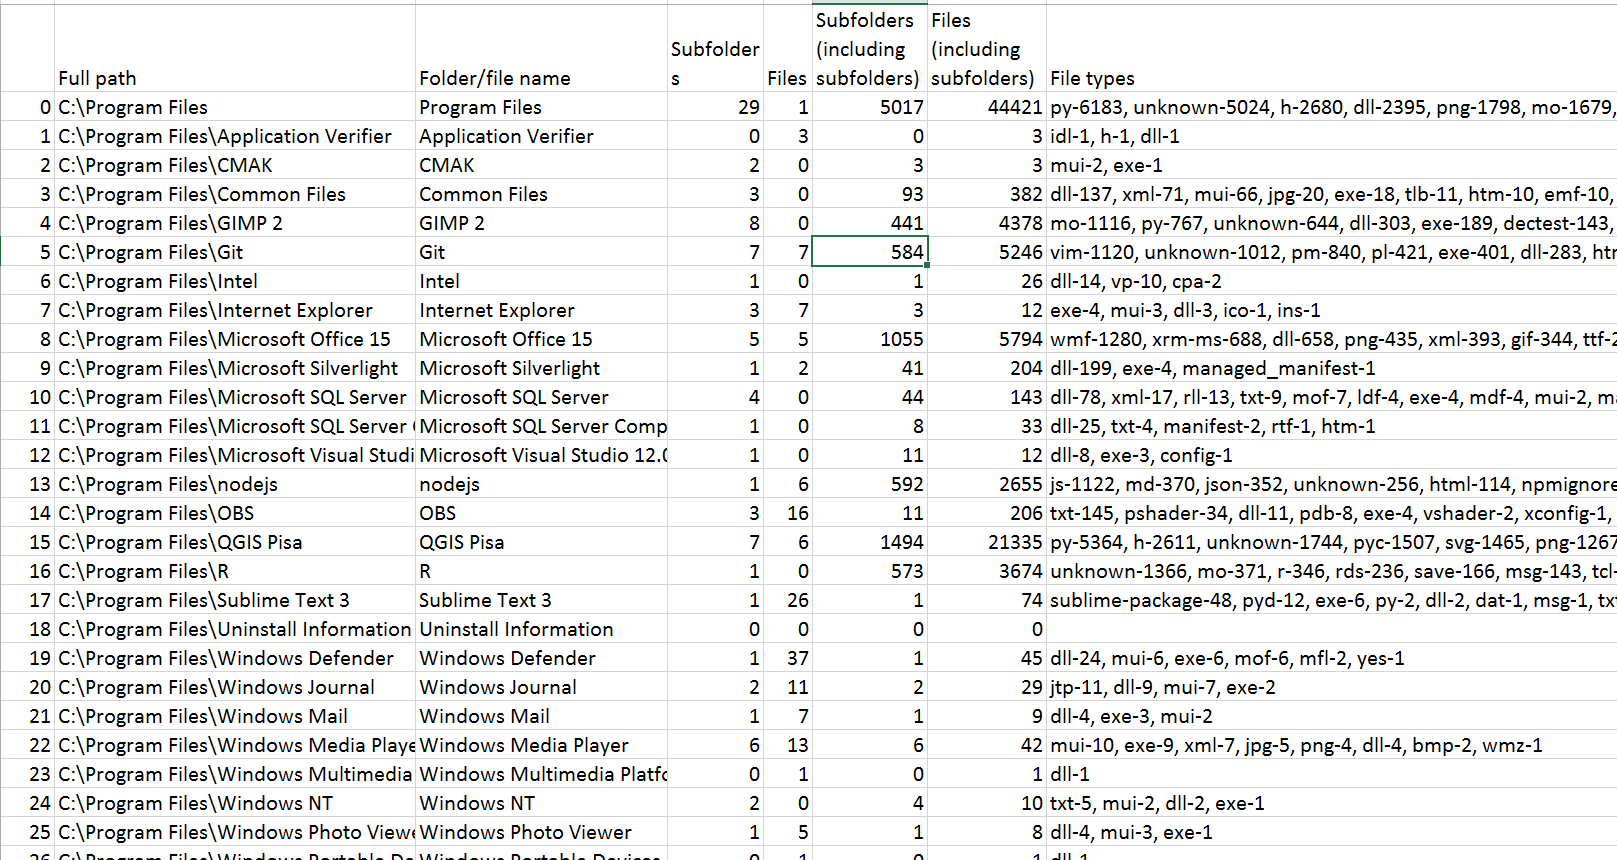
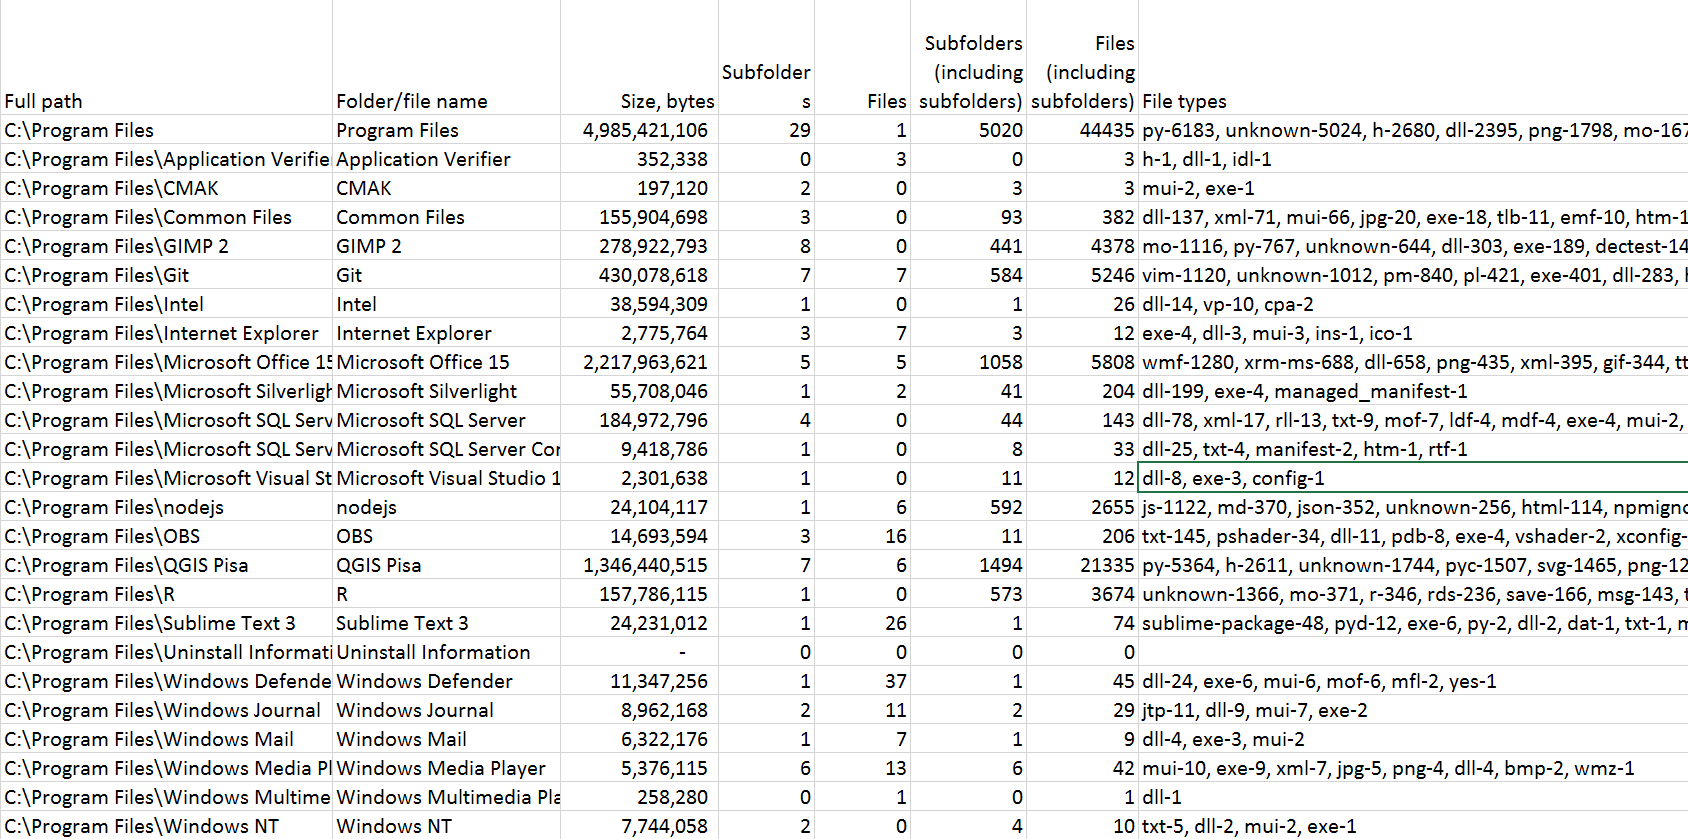
Add file size field

Changed region(s): [[0.0, 0.0, 1.0, 1.0]]

diff --git a/directory plus GUI.py b/directory plus GUI.py
@@ -19,12 +19,17 @@ class DirInfo:
             self.add_files(dir_df, dir_list, max_depth, my_path)
         dir_df.to_csv(swap_chr(swap_chr(my_path, '\\', '.'), ':', ".") + '.csv')
 
+    def get_size(self, path):
+        try:
+            return os.path.getsize(path)
+        except:
+            return 0
+
     def create_directory_list(self, my_path):
         d_list = []
         for (dirpath, dirnames, filenames) in os.walk(my_path):
-            d_list.append((dirpath, dirnames, filenames))
-            # comment out break to allow this to loop through all folders in the path
-            # break
+            file_name_size = [(file_name, self.get_size(dirpath + '\\' + file_name)) for file_name in filenames]
+            d_list.append((dirpath, dirnames, file_name_size))
         return d_list
 
     def folder_depth(self, parent_path, lookup_path):
@@ -72,24 +77,26 @@ class DirInfo:
     def file_stats(self, path, dir_list):
         # Returns a tuple of the count of files in the folder and file extension string.
         file_ct = 0
+        folder_size = 0
         extension_dict = {}
         for line in dir_list:
             if self.is_subfolder(line[0], path):
+                folder_size += sum(file_name_size[1] for file_name_size in line[2])
                 # Add the file count in this folder to the total file count.
                 file_ct += len(line[2])
                 # Loop through each file extension creating am extension dictionary where the value
                 # is the count of files with that extension.
                 for file_name in line[2]:
-                    ext = self.get_extension(file_name)
+                    ext = self.get_extension(file_name[0])
                     if ext in extension_dict:
                         extension_dict[ext] += 1
                     else:
                         extension_dict.update({ext: 1})
-        return (file_ct, self.dict_to_sort_str(extension_dict))
+        return (file_ct, self.dict_to_sort_str(extension_dict), folder_size)
 
     def build_df(self, dir_list, max_depth, my_path):
         # Build dataframe from folders.
-        df_index = ['Full path', 'Folder/file name', 'Subfolders', 'Files',
+        df_index = ['Full path', 'Folder/file name', 'Size, bytes', 'Subfolders', 'Files',
                     'Subfolders (including subfolders)', 'Files (including subfolders)', 'File types']
         df = pd.DataFrame(columns=df_index)
         for line in dir_list:
@@ -99,6 +106,7 @@ class DirInfo:
                 # the '.loc[len(dir_df)] =' functions as an .append() method for a dataframe.
                 df.loc[len(df)] = [path,
                                    self.folder_name(path),
+                                   f_stats[2],
                                    len(line[1]),
                                    len(line[2]),
                                    self.count_subfolders(path, dir_list),
@@ -112,7 +120,7 @@ class DirInfo:
             path = line[0]
             if self.folder_depth(my_path, path) <= max_depth:
                 for file_name in line[2]:
-                    dir_df.loc[len(dir_df)] = [path, file_name, '', '', '', '', '']
+                    dir_df.loc[len(dir_df)] = [path, file_name[0], file_name[1], '', '', '', '', '']
 
 
 class DirGUI(Frame):

diff --git a/README.md b/README.md
@@ -4,5 +4,8 @@ Are you ever unsure what files are on in a folder on your computer or network dr
 Using Python, I made a script to walk through a file directory and output the data in an easy to read tabular format.
 # Tkinter GUI
 I added a basic GUI using Tkinter. Tkinter has a file dialogue that works for selecting a folder. The user has the option to specify how far down the directory to see. The user also can toggle if file names in the folders will be included in the output.
+![Alt text](/readme screenshots/dir GUI.PNG?raw=true "Tkinter main GUI")
+![Alt text](/readme screenshots/dir GUI folder select.PNG?raw=true "Tkinter select directory GUI")
 # Output
-The output includes the path, folder/file name, count of files and folders both in that folder and subfolders, and a list of file types sorted by occurrence. A list of files in the folders can also be added to the list. The output is saved as a CSV file. The output file name is based on the name of the directory, so the script can be ran for multiple directories without overwriting other searches. 
+The output includes the path, folder/file name, folder/file size, count of files and folders both in that folder and subfolders, and a list of file types sorted by occurrence. A list of files in the folders can also be added to the list. The output is saved as a CSV file. The output file name is based on the name of the directory, so the script can be ran for multiple directories without overwriting other searches. 
+![Alt text](/readme screenshots/csv output.PNG?raw=true "CSV Output")
